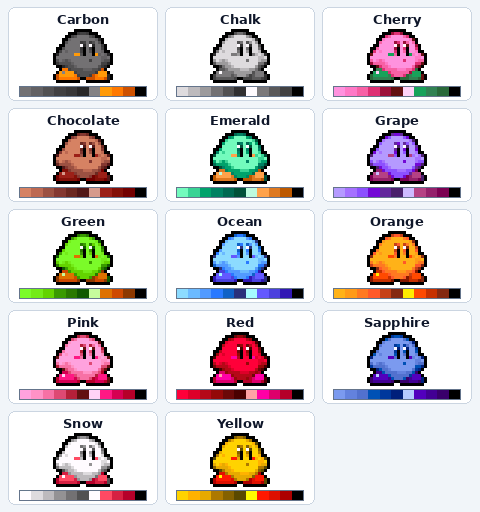
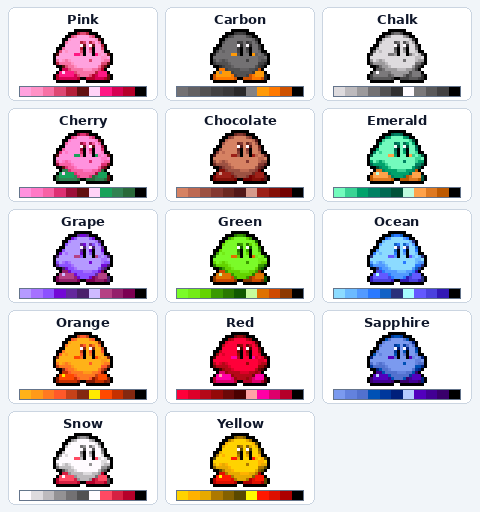
Keep default Pink first among original Kirby colors

diff --git a/worlds/kirbyam/docs/color-palettes.md b/worlds/kirbyam/docs/color-palettes.md
@@ -15,7 +15,7 @@ Kirby & The Amazing Mirror:
 
 ### Original colors
 
-![Kirby sprites and swatches for the 14 original palettes, from Carbon to Yellow. The YAML keys are listed below.](color-palettes-native.png)
+![Kirby sprites and swatches for the 14 original palettes, with Pink first, then Carbon through Yellow. The YAML keys are listed below.](color-palettes-native.png)
 
 ### Additional starting colors
 
@@ -28,6 +28,7 @@ Kirby & The Amazing Mirror:
 
 | Color | YAML value |
 | --- | --- |
+| Pink | `pink` |
 | Carbon | `carbon` |
 | Chalk | `chalk` |
 | Cherry | `cherry` |
@@ -37,7 +38,6 @@ Kirby & The Amazing Mirror:
 | Green | `green` |
 | Ocean | `ocean` |
 | Orange | `orange` |
-| Pink | `pink` |
 | Red | `red` |
 | Sapphire | `sapphire` |
 | Snow | `snow` |
